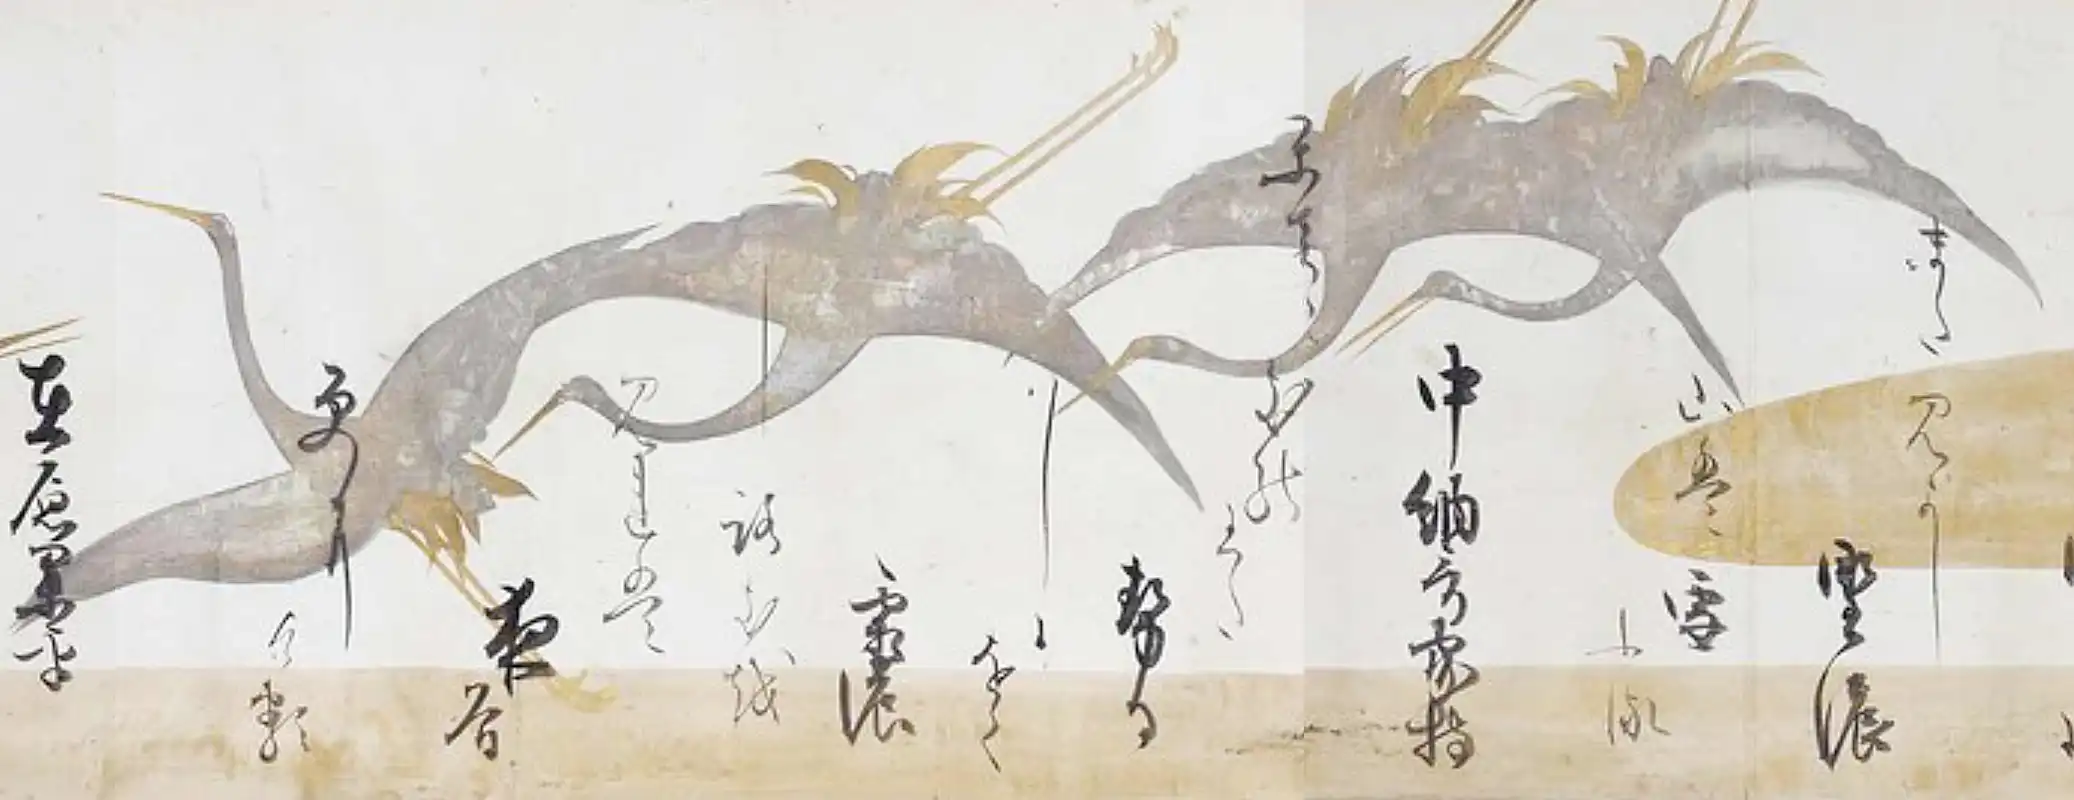
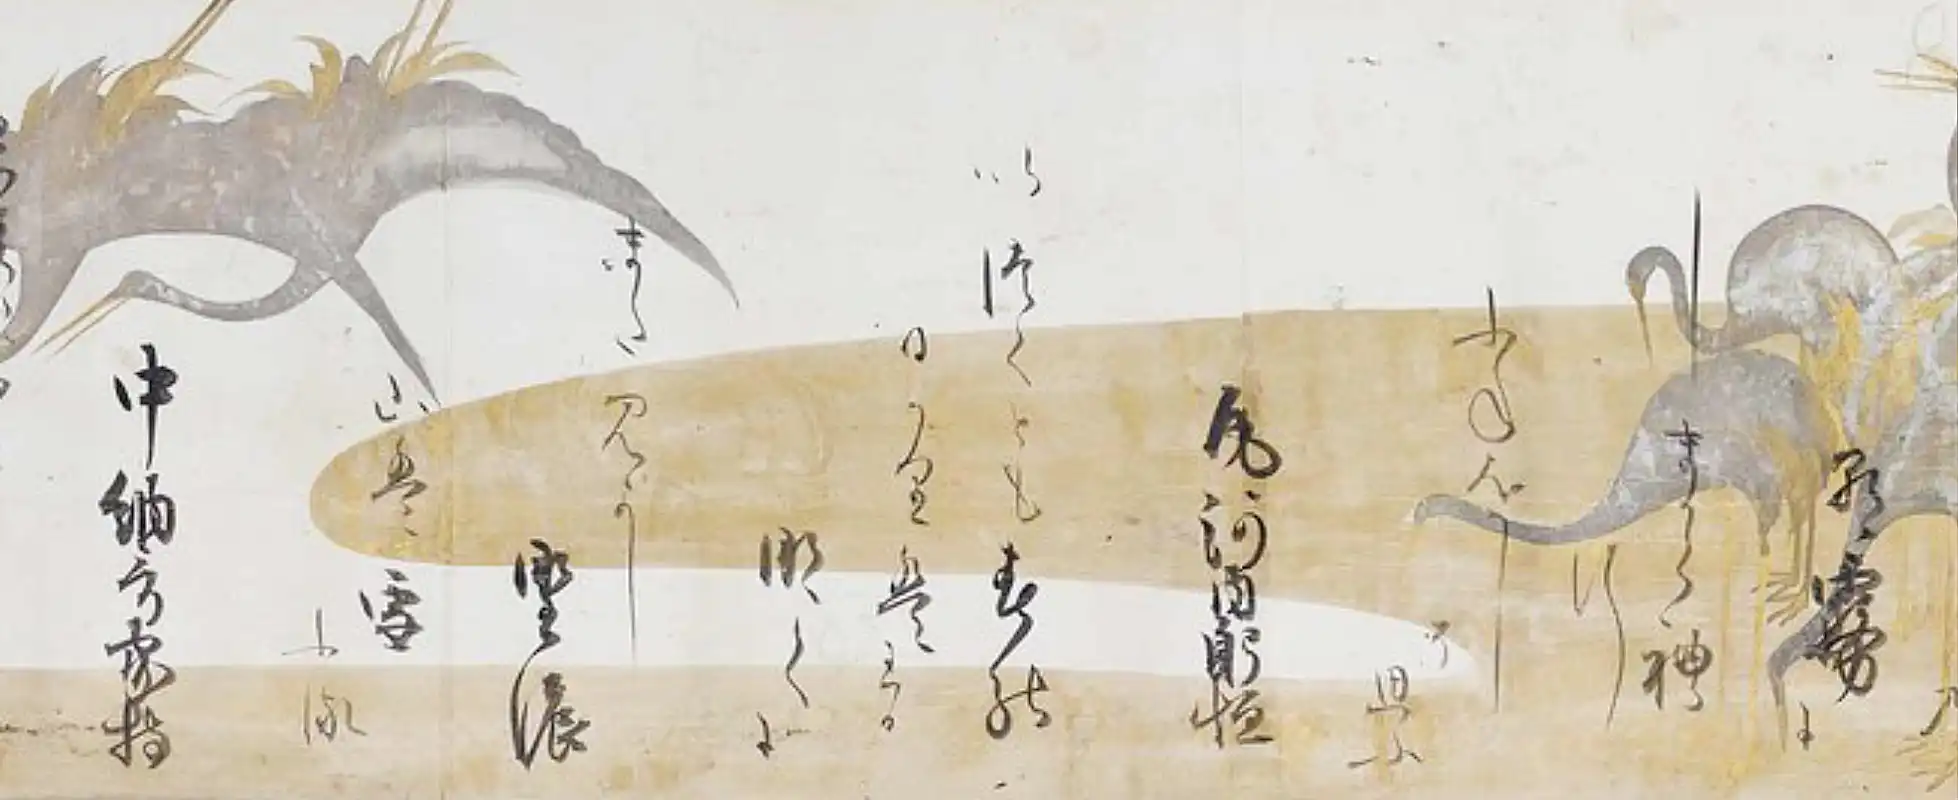
鶴図下絵和歌巻を追加

diff --git a/libs/data.js b/libs/data.js
@@ -3283,7 +3283,79 @@ const data = [
         src: "/tsuruzusitaewakamaki_07-1080.webp",
         name: "tsuruzusitaewakamaki_07.webp",
       },
-    ],
+      {
+        load: false,
+        cat: "image",
+        srcSp: "/tsuruzusitaewakamaki_08-375.webp",
+        srcTb: "/tsuruzusitaewakamaki_08-800.webp",
+        src: "/tsuruzusitaewakamaki_08-1080.webp",
+        name: "tsuruzusitaewakamaki_08.webp",
+      },
+      {
+        load: false,
+        cat: "image",
+        srcSp: "/tsuruzusitaewakamaki_09-375.webp",
+        srcTb: "/tsuruzusitaewakamaki_09-800.webp",
+        src: "/tsuruzusitaewakamaki_09-1080.webp",
+        name: "tsuruzusitaewakamaki_09.webp",
+      },
+      {
+        load: false,
+        cat: "image",
+        srcSp: "/tsuruzusitaewakamaki_10-375.webp",
+        srcTb: "/tsuruzusitaewakamaki_10-800.webp",
+        src: "/tsuruzusitaewakamaki_10-1080.webp",
+        name: "tsuruzusitaewakamaki_10.webp",
+      },
+      {
+        load: false,
+        cat: "image",
+        srcSp: "/tsuruzusitaewakamaki_11-375.webp",
+        srcTb: "/tsuruzusitaewakamaki_11-800.webp",
+        src: "/tsuruzusitaewakamaki_11-1080.webp",
+        name: "tsuruzusitaewakamaki_11.webp",
+      },
+      {
+        load: false,
+        cat: "image",
+        srcSp: "/tsuruzusitaewakamaki_12-375.webp",
+        srcTb: "/tsuruzusitaewakamaki_12-800.webp",
+        src: "/tsuruzusitaewakamaki_12-1080.webp",
+        name: "tsuruzusitaewakamaki_12.webp",
+      },
+      {
+        load: false,
+        cat: "image",
+        srcSp: "/tsuruzusitaewakamaki_13-375.webp",
+        srcTb: "/tsuruzusitaewakamaki_13-800.webp",
+        src: "/tsuruzusitaewakamaki_13-1080.webp",
+        name: "tsuruzusitaewakamaki_13.webp",
+      },
+      {
+        load: false,
+        cat: "image",
+        srcSp: "/tsuruzusitaewakamaki_14-375.webp",
+        srcTb: "/tsuruzusitaewakamaki_14-800.webp",
+        src: "/tsuruzusitaewakamaki_14-1080.webp",
+        name: "tsuruzusitaewakamaki_14.webp",
+      },
+      {
+        load: false,
+        cat: "image",
+        srcSp: "/tsuruzusitaewakamaki_15-375.webp",
+        srcTb: "/tsuruzusitaewakamaki_15-800.webp",
+        src: "/tsuruzusitaewakamaki_15-1080.webp",
+        name: "tsuruzusitaewakamaki_15.webp",
+      },
+      {
+        load: false,
+        cat: "image",
+        srcSp: "/tsuruzusitaewakamaki_16-375.webp",
+        srcTb: "/tsuruzusitaewakamaki_16-800.webp",
+        src: "/tsuruzusitaewakamaki_16-1080.webp",
+        name: "tsuruzusitaewakamaki_16.webp",
+      }
+    ]
   },
 ];
 export default data;
